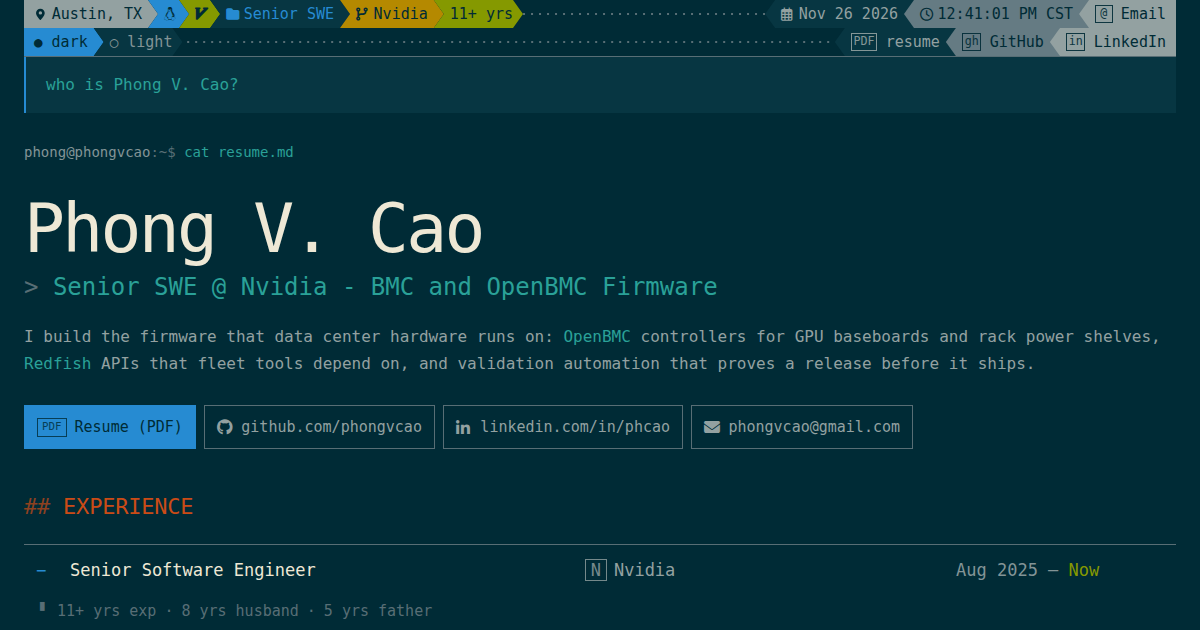
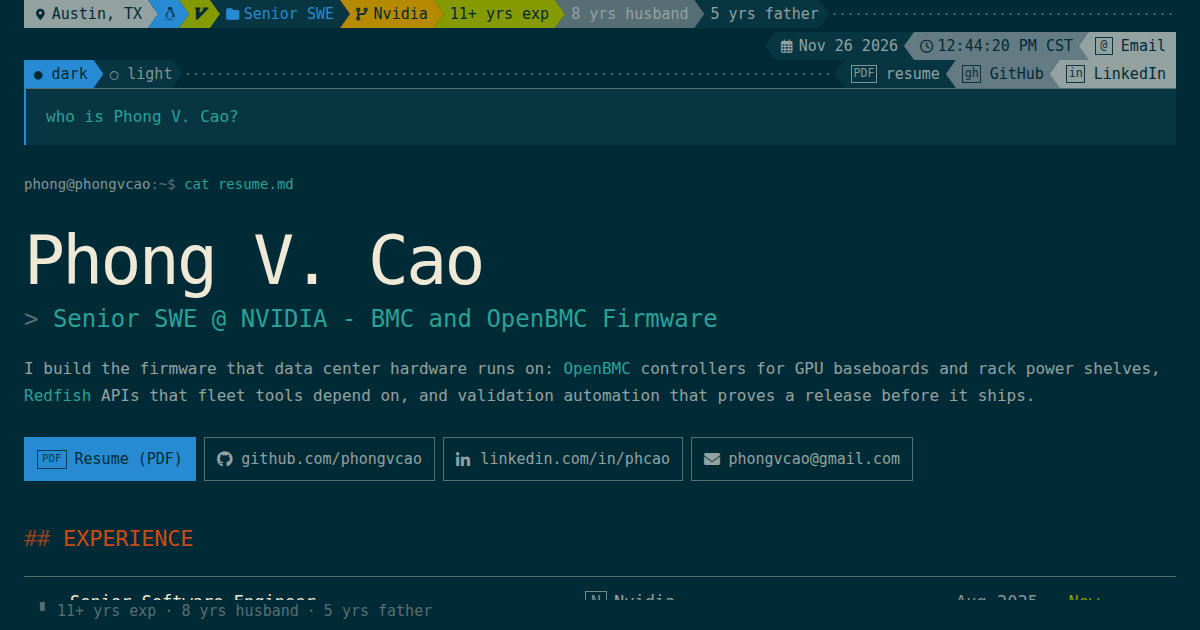
site: career years ride the bar, NVIDIA in caps
- 11+ yrs exp, 8 yrs husband and 5 yrs father are powerline segments, each computed from its start date
- The three colours stay distinct: green, base01, base02
- The role line reads Senior SWE @ NVIDIA - BMC and OpenBMC Firmware

diff --git a/index.html b/index.html
@@ -87,7 +87,9 @@
         <span class="pl-seg pl-vim pl-hide-sm" aria-hidden="true">&#xE62B;</span>
         <span class="pl-seg pl-dir pl-hide-sm"><span class="pl-icon" aria-hidden="true">&#xF07B;</span>Senior SWE</span>
         <span class="pl-seg pl-vcs"><span class="pl-icon" aria-hidden="true">&#xF126;</span>Nvidia</span>
-        <span class="pl-seg pl-context" data-since="2015-06-01" data-template="{n}+ yrs">11+ yrs</span>
+        <span class="pl-seg pl-context" data-since="2015-06-01" data-template="{n}+ yrs exp">11+ yrs exp</span>
+        <span class="pl-seg pl-context-alt" data-since="2018-01-01" data-template="{n} yrs husband">8 yrs husband</span>
+        <span class="pl-seg pl-context-dark" data-since="2021-01-01" data-template="{n} yrs father">5 yrs father</span>
       </div>
       <span class="pl-fill" aria-hidden="true"></span>
       <div class="pl-group pl-right">
@@ -119,7 +121,7 @@
       <p class="command-line"><span class="host">phong@phongvcao</span><span class="dim">:~$</span> <span class="cmd">cat resume.md</span></p>
 
       <h1>Phong V. Cao<span class="cursor" aria-hidden="true"></span></h1>
-      <p class="role"><span class="mark" aria-hidden="true">&gt; </span>Senior SWE @ <a class="company-link" href="https://www.nvidia.com/" target="_blank" rel="noopener">Nvidia</a> - BMC and <a class="term-link" href="https://openbmc.org/" target="_blank" rel="noopener">OpenBMC</a> Firmware</p>
+      <p class="role"><span class="mark" aria-hidden="true">&gt; </span>Senior SWE @ <a class="company-link" href="https://www.nvidia.com/" target="_blank" rel="noopener">NVIDIA</a> - BMC and <a class="term-link" href="https://openbmc.org/" target="_blank" rel="noopener">OpenBMC</a> Firmware</p>
       <p class="intro">I build the firmware that data center hardware runs on: <a class="term-link" href="https://openbmc.org/" target="_blank" rel="noopener"><code>OpenBMC</code></a> controllers for GPU baseboards and rack power shelves, <a class="term-link" href="https://www.dmtf.org/standards/redfish" target="_blank" rel="noopener"><code>Redfish</code></a> APIs that fleet tools depend on, and validation automation that proves a release before it ships.</p>
 
       <nav class="actions" aria-label="Links">

diff --git a/styles.css b/styles.css
@@ -1114,6 +1114,16 @@ code {
   --seg-fg: var(--base03);
 }
 
+.pl-context-alt {
+  --seg-bg: var(--base01);
+  --seg-fg: var(--base1);
+}
+
+.pl-context-dark {
+  --seg-bg: var(--base02);
+  --seg-fg: var(--base1);
+}
+
 @media (max-width: 720px) {
   :root {
     --topbar-h: 57px;
@@ -1303,6 +1313,8 @@ code {
   .pl-status,
   .pl-vim,
   .pl-context,
+  .pl-context-alt,
+  .pl-context-dark,
   .pl-right .pl-seg:nth-child(n + 2) {
     display: none;
   }
